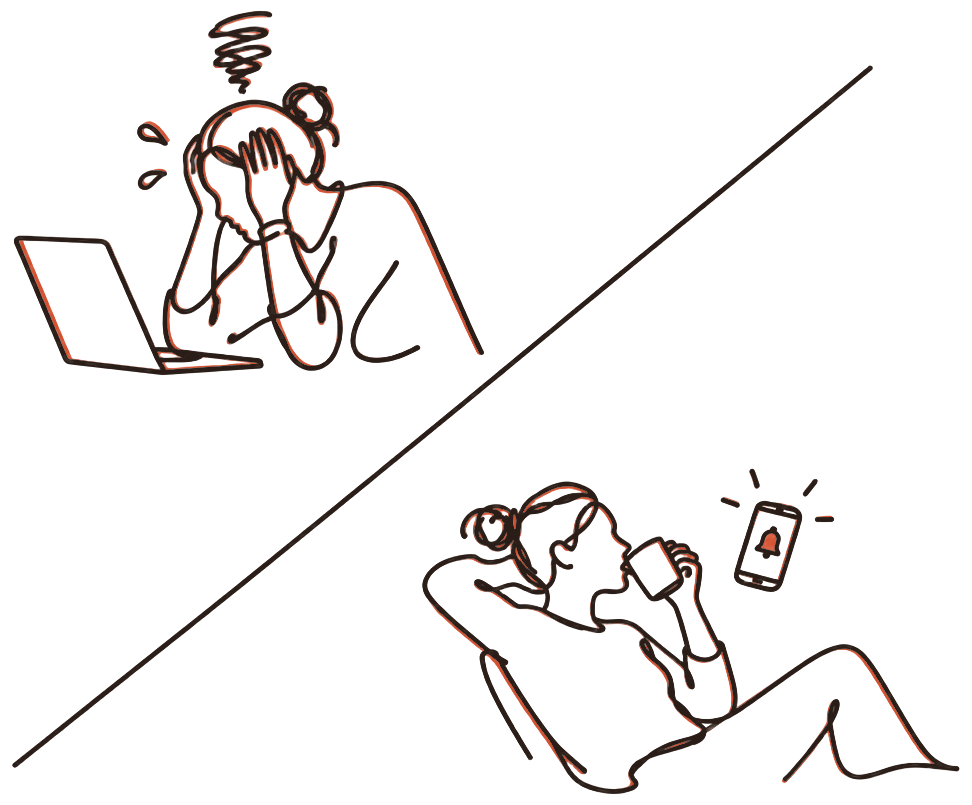
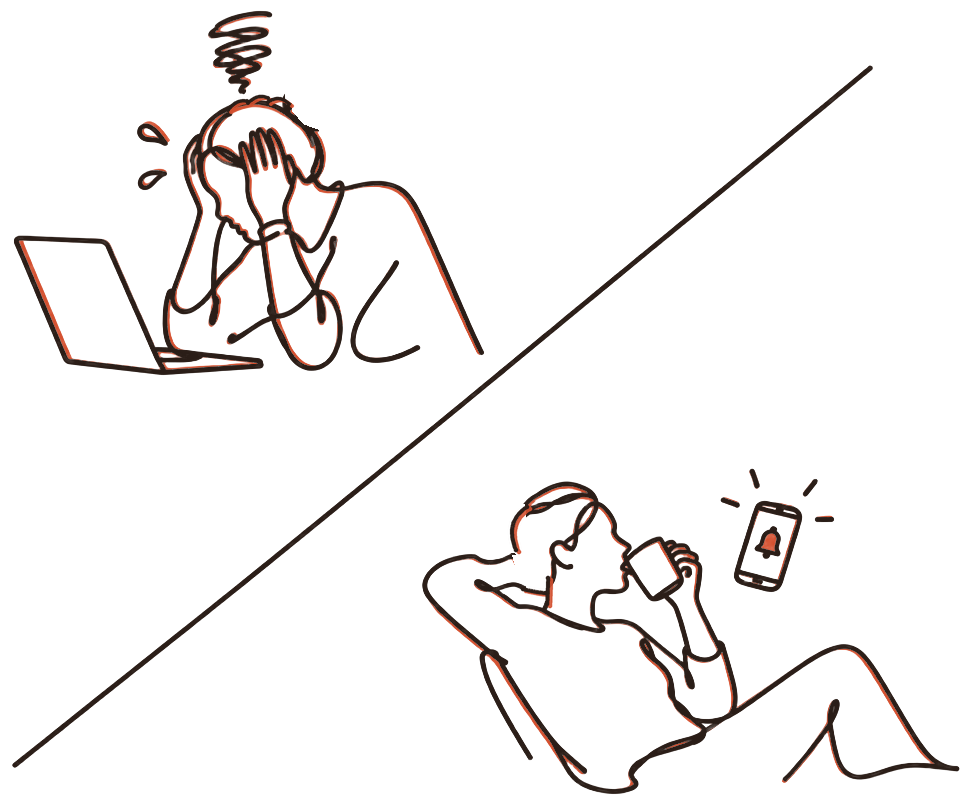
Title slide: edit the original drawing instead of replacing it; Kilts
- Restore the original before/after line drawing and make minor edits
  only: remove both hair buns and the ponytail, give both figures short
  hair, and reconnect the lines around them. Drops the traced
  replacement image.
- 'License to Kiltz' becomes 'License to Kilts'.

Claude-Session: https://claude.ai/code/session_01NzhFwj8JC2295rPg1XZW4W

Changed region(s): [[0.463, 0.6211, 0.5864, 0.7453], [0.2469, 0.0932, 0.3704, 0.1863]]

diff --git a/src/deck/slides/02-Title.tsx b/src/deck/slides/02-Title.tsx
@@ -2,7 +2,7 @@ import { Headline } from '../components/Headline';
 import { Reveal } from '../components/Reveal';
 import { SlideFrame } from '../components/SlideFrame';
 import type { SlideMetadata } from '../types';
-import beforeAfter from '@/assets/title-before-after-man.png';
+import beforeAfter from '@/assets/concept-a2-before-after.png';
 
 export const metadata: SlideMetadata = {
   id: 'title',
@@ -34,7 +34,7 @@ export default function TitleSlide() {
             </p>
           </Reveal>
           <Reveal delay={240}>
-            <p className="mt-[64px] text-[20px] tracking-[0.02em] text-[var(--deck-muted)]">License to Kiltz · Chicago Booth · November 2026</p>
+            <p className="mt-[64px] text-[20px] tracking-[0.02em] text-[var(--deck-muted)]">License to Kilts · Chicago Booth · November 2026</p>
           </Reveal>
         </div>
 
